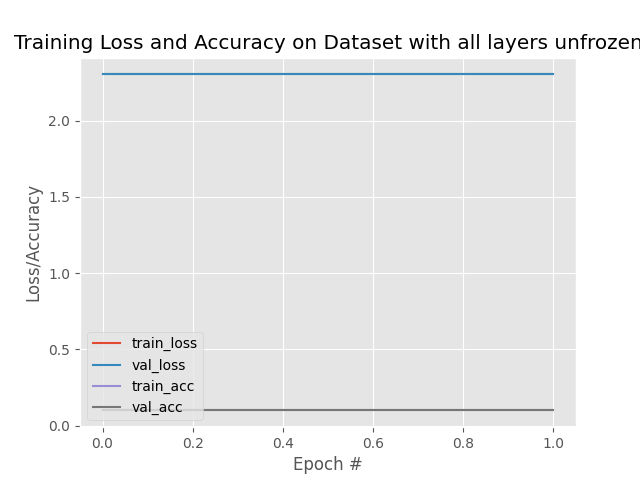
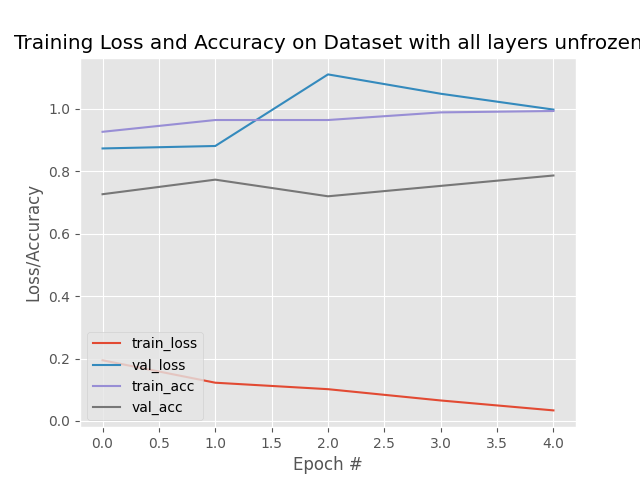
cnn bug bixes

diff --git a/src/vgg_model.py b/src/vgg_model.py
@@ -38,7 +38,7 @@ def generate_vgg_model_basic(input_shape, classes_len):
     # model.add(Dropout(0.1, name='Dropout_Regularization'))
 
     # Final output layer
-    model.add(Dense(classes_len, activation='sigmoid', name='Output'))
+    model.add(Dense(classes_len, activation='softmax', name='Output'))
 
     return model
 
@@ -79,7 +79,7 @@ def generate_vgg_model_adv(input_shape, classes_len):
     # model.add(Dropout(0.1, name='Dropout_Regularization'))
 
     ##Final output layer
-    model.add(Dense(classes_len, activation='sigmoid', name='Output'))
+    model.add(Dense(classes_len, activation='softmax', name='Output'))
 
     # for cnn_block_layer in model.layers[0].layers:
 

diff --git a/src/test_functionality.py b/src/test_functionality.py
@@ -14,8 +14,8 @@ input_shape = [512,512]
 # CLASSES = 3
 CLASSES = 10
 BATCH_SIZE = 10
-EPOCH_1 = 3
-EPOCH_2 = 2
+EPOCH_1 = 20
+EPOCH_2 = 10
 
 # Create CNN model
 if model_type == "basic":
